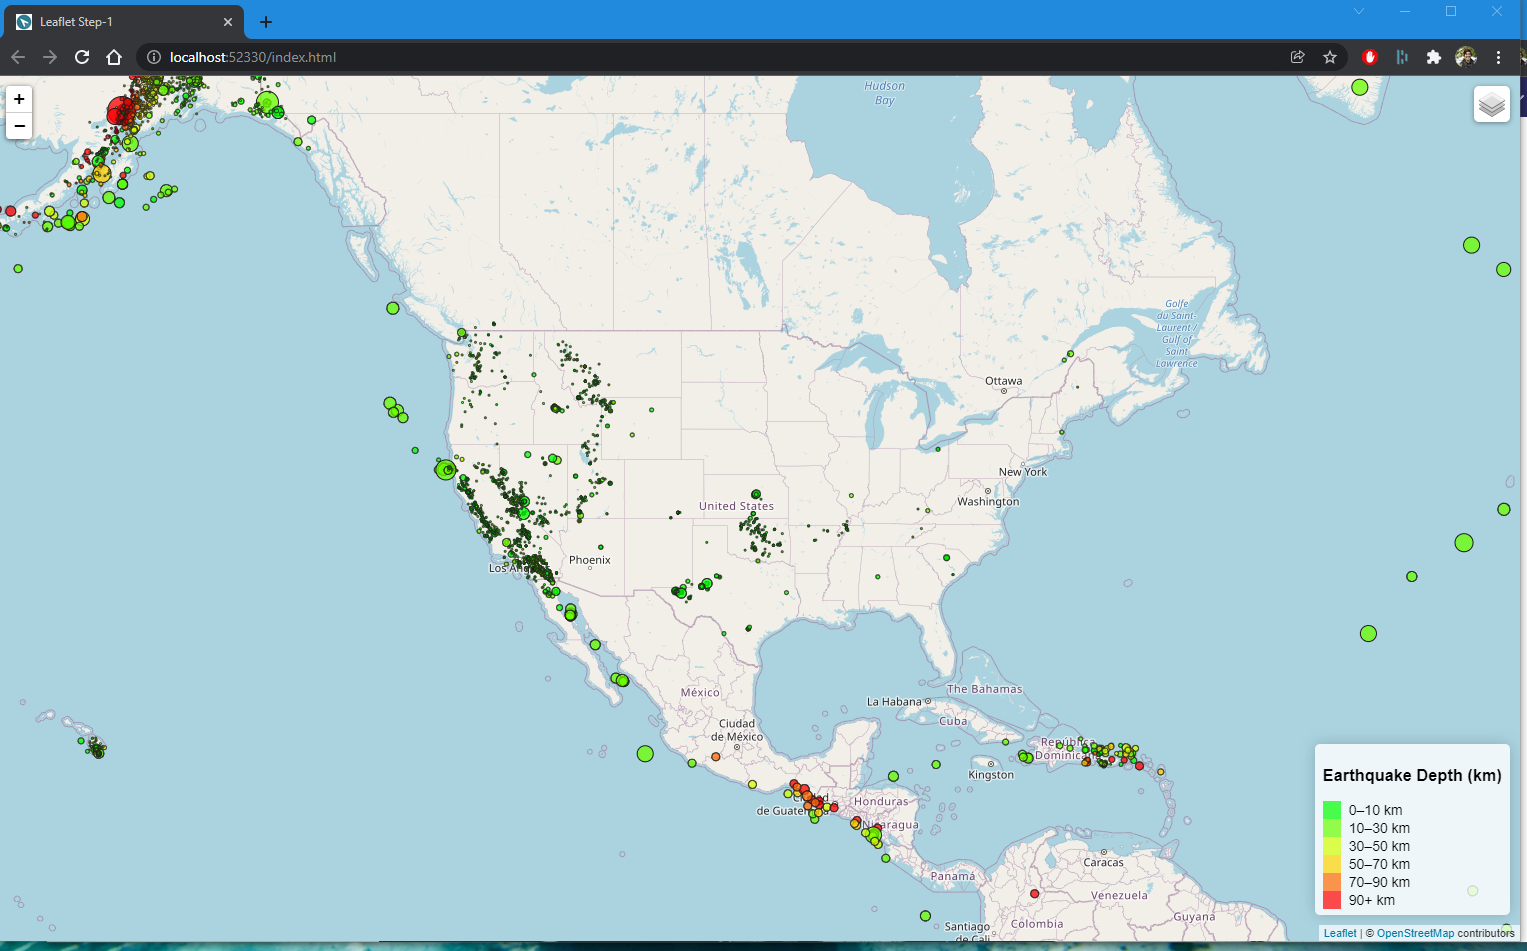
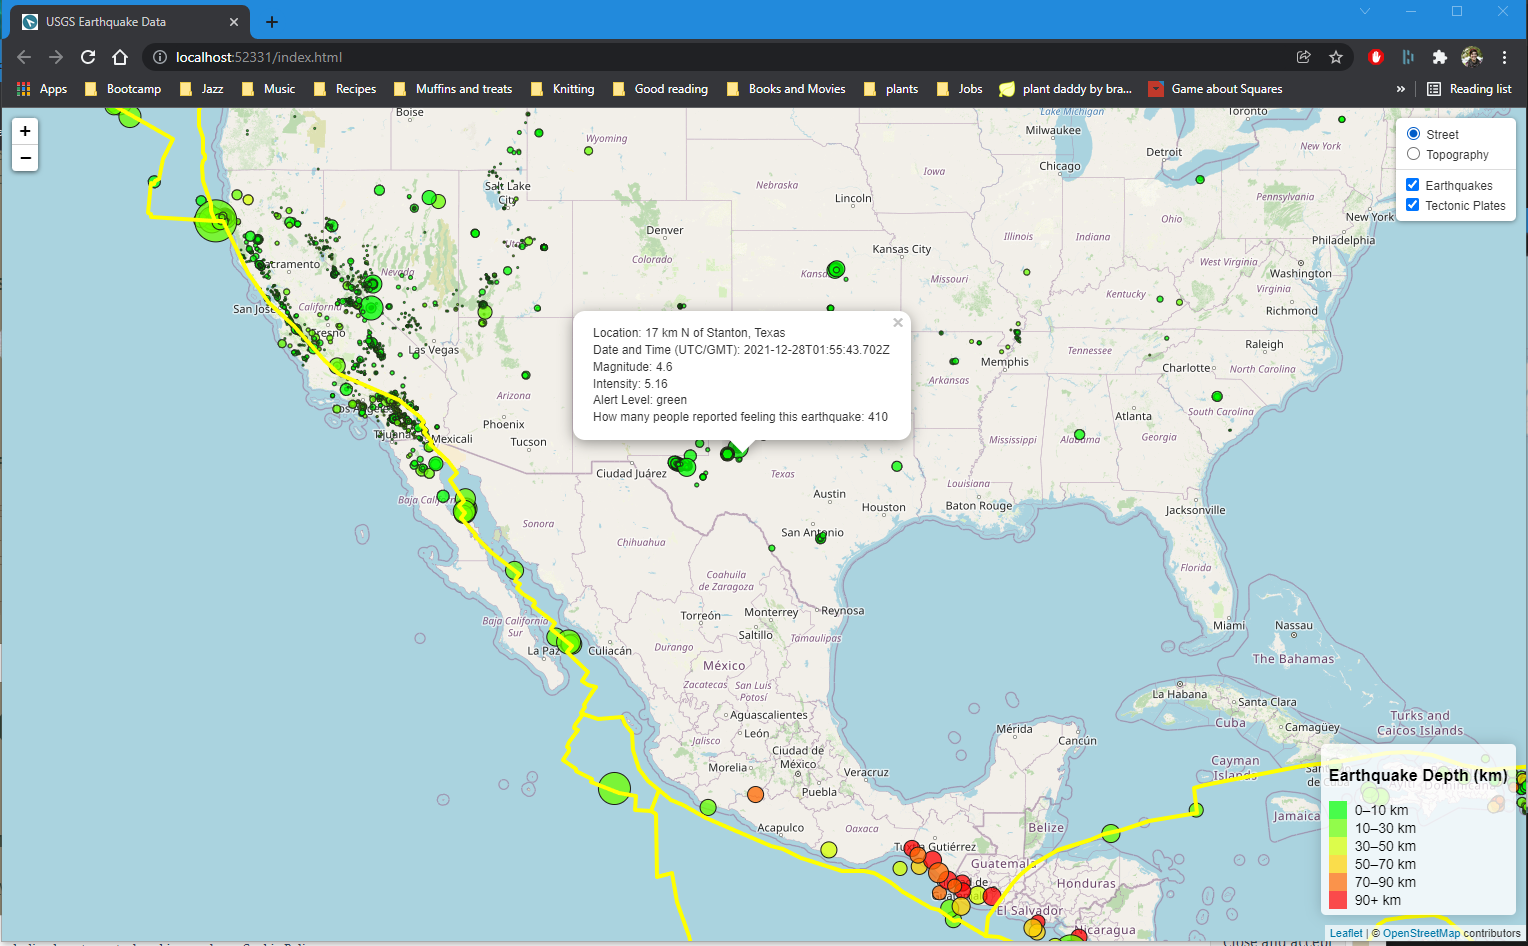
tectonic plates done with l.geojson

diff --git a/static/js/logic.js b/static/js/logic.js
@@ -1,5 +1,5 @@
 async function main() {
-  
+
     //circle radius = magnitude of the earthquake, higher magnitudes = larger circle
     function circleSize(magnitude) {
         return Math.pow(magnitude, 2) * 2000
@@ -38,23 +38,40 @@ async function main() {
         //data markers by long & lat
         quakeMarkers.push(
             L.circle([location.coordinates[1], location.coordinates[0]], {
-                color: '#1C1918', //outside borderline color
-                fillColor: circleColor(location.coordinates[2]), 
-                fillOpacity: 0.75,
-                radius: circleSize(properties.mag),
-                weight: 1 //weight of outside borderline
-            //popups with more info when marker is clicked
-            }).bindPopup(`Location: ${properties.place}
-                <br>Date and Time (UTC/GMT): ${dateTime} 
-                <br>Magnitude: ${properties.mag}
-                <br>Intensity: ${properties.mmi}
-                <br>Alert Level: ${properties.alert}
-                <br>How many people reported feeling this earthquake: ${properties.felt}`)
-        ); 
+            color: '#1C1918', //outside borderline color
+            fillColor: circleColor(location.coordinates[2]), 
+            fillOpacity: 0.75,
+            radius: circleSize(properties.mag),
+            weight: 1 //weight of outside borderline
+        //popups with more info when marker is clicked
+        }).bindPopup(`Location: ${properties.place}
+            <br>Date and Time (UTC/GMT): ${dateTime} 
+            <br>Magnitude: ${properties.mag}
+            <br>Intensity: ${properties.mmi}
+            <br>Alert Level: ${properties.alert}
+            <br>How many people reported feeling this earthquake: ${properties.felt}`));
+            
     };
 
-    //add earthquake array to layer group
+    //add quake array to layer group
     let quakes = L.layerGroup(quakeMarkers);
+
+
+    //import data on tectonic plates from repo tectonicplates
+    const plateData = "./data/PB2002_boundaries.json" 
+    const response2 =  await fetch(plateData);
+    const plates = await response2.json();
+
+    let plateGeos = plates.features;
+    
+    //put geojson into a layer with styling
+    let geojsonLayer = L.geoJSON(plateGeos, {
+        color: "yellow", 
+        weight: 4,
+        fillColor: "yellow",
+        fillOpacity: 0
+    }); 
+
 
     //create background tile layers
     const street = L.tileLayer('https://{s}.tile.openstreetmap.org/{z}/{x}/{y}.png', {
@@ -65,27 +82,28 @@ async function main() {
 	attribution: 'Map data: &copy; <a href="https://www.openstreetmap.org/copyright">OpenStreetMap</a> contributors, <a href="http://viewfinderpanoramas.org">SRTM</a> | Map style: &copy; <a href="https://opentopomap.org">OpenTopoMap</a> (<a href="https://creativecommons.org/licenses/by-sa/3.0/">CC-BY-SA</a>)'
     });
 
-    //add layers to objects
+    //create objects to hold layers
     const baseMaps = {
         Street: street,
         Topography: topo
     };
-    
+
     const overlayMaps = {
-        "Earthquakes": quakes
+        "Earthquakes": quakes,
+        "Tectonic Plates": geojsonLayer
     };
 
     // Create map object
       const myMap = L.map("map", {
-        center: [37.6872, -97.3301],
-        zoom: 4, 
-        layers: [street, quakes]
+        center: [35.9375, 14.3754],
+        zoom: 3, 
+        layers: [street, quakes, geojsonLayer]
     });
 
     // Add the layer control to the map.
     L.control.layers(baseMaps, overlayMaps).addTo(myMap);
 
-   
+
     //legend for colors, see https://leafletjs.com/examples/choropleth/
     //create legend as variable
     const legend = L.control({position:'bottomright'});

diff --git a/index.html b/index.html
@@ -5,7 +5,7 @@
   <meta charset="UTF-8">
   <meta name="viewport" content="width=device-width, initial-scale=1.0">
   <meta http-equiv="X-UA-Compatible" content="ie=edge">
-  <title>Leaflet Step-1</title>
+  <title>USGS Earthquake Data</title>
 
   <!-- Leaflet CSS -->
   <link rel="stylesheet" href="https://unpkg.com/leaflet@1.6.0/dist/leaflet.css"
